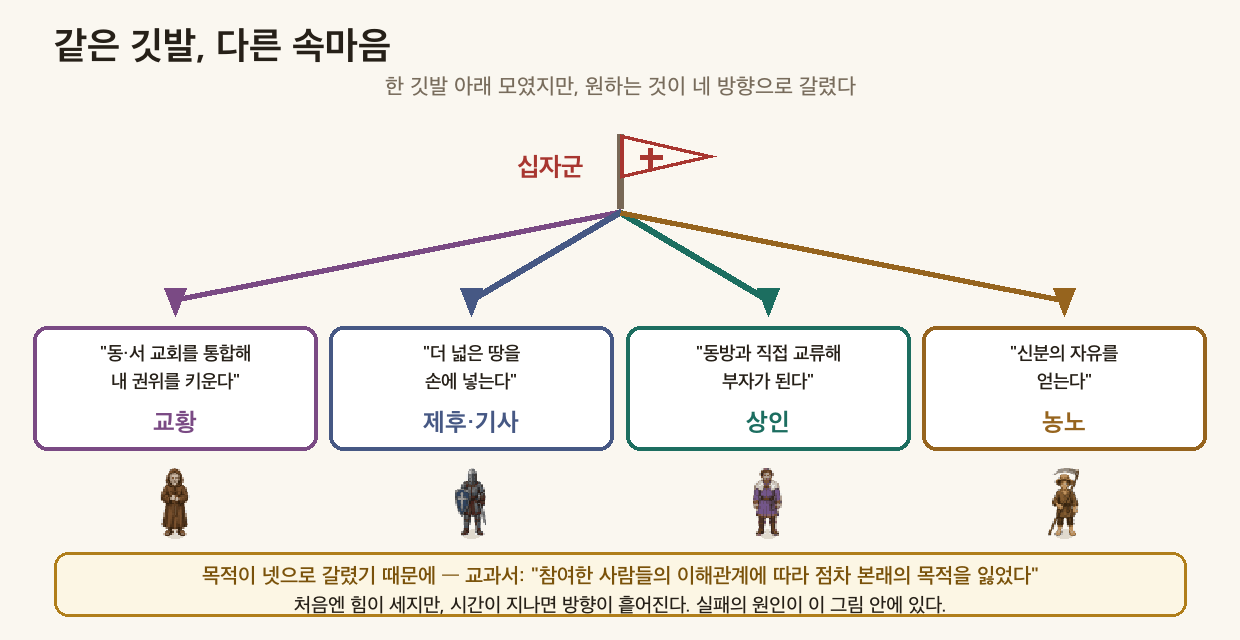
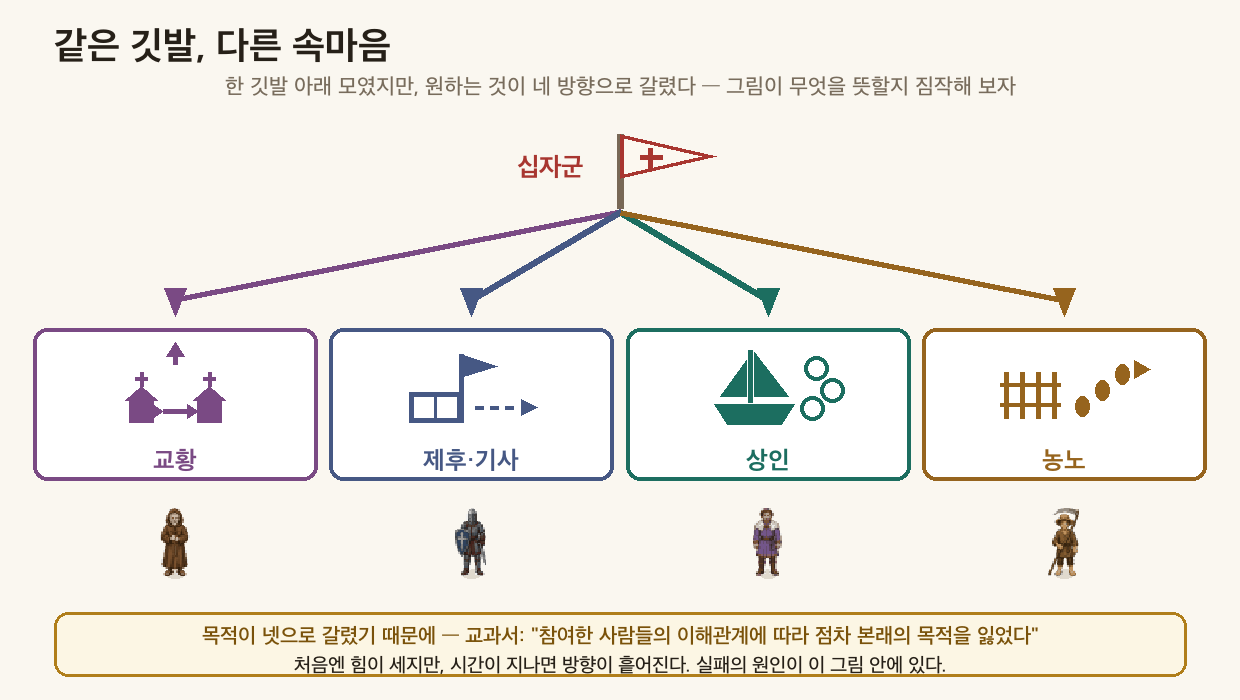
3-3-3 — 속마음을 말에서 꿍꿍이 그림으로 · 4단계 보강 (천대현)
■ 3단계 — 카드에서 말을 빼고 픽토그램만
종전 카드에 따옴표 문장이 그대로 있었고, 바로 아래 교과서 슬롯과 활동 1의
답이 거기 다 있었다. 교과서를 안 펴도 둘 다 풀렸다.
→ 그림으로 짐작 → 교과서 삽화에서 말 확인 → 활동 1에서 매칭, 세 단계로.
  교황=교회 둘이 하나로+↑ / 제후·기사=땅과 깃발+확장 / 상인=배와 동전 /
  농노=울타리 밖으로 난 발자국
🔴 농노에 쇠사슬을 쓰지 않았다 — 3-3-1이 "농노 ≠ 노예"를 가르친다. 울타리는
   "떠날 수 없다"지 "묶여 있다"가 아니다.
⚠ 명시형(A)은 옛 말 병기판(_말.png) 유지 — 느린 학습자에게 그림만 주면
   비계가 사라진다. 본판·탐구형만 그림판.

■ 🔴 키워드 카드 3이 답표였다
도식에서 말을 빼 놓고도 카드가 「누가 / 진짜 원한 것」 4행 표를 갖고 있었다.
게다가 카드는 hero 아코디언이라 페이지 맨 위다 — 본문 전에 열면 그 자리에서
끝난다. 「이해관계」 개념 카드로 교체.
🔑 키워드 카드는 개념어를 담는 자리지 답표를 담는 자리가 아니다.

■ 4단계 — 6단계 중 유일하게 입담도 교과서 슬롯도 없던 단계
하필 OX 2번의 함정이 걸린 자리인데, 함정을 콜아웃으로 알려 주기만 하고 학생이
교과서에서 직접 확인할 자리가 없었다.
→ 200년의 무게 입담 + 「제1차 원정의 결과」와 「전쟁이 끝났을 때의 결과」를
   따로 적게 하는 슬롯. 한 문장 안에 둘이 같이 있어서 앞부분만 읽은 학생이
   OX 2번을 O로 찍는다 — 갈라 적으면 자기 눈으로 모순을 본다.
셋 다 슬롯을 난이도별로 달리 썼다(명시형=①② 지정 / 탐구형=왜 그렇게 썼나 추가).

실측: 본판·명시형·탐구형 전부 빈단계 0 · 입담빈 1 · 교과서빈 2 · 이미지 6 ·
빈칸 6 · OX 3 · CSS 균형 0

Claude-Session: https://claude.ai/code/session_01WENst2cudxyR6rXxwWSCeM

Changed region(s): [[0.0306, 0.1875, 0.9806, 0.9688], [0.0306, 0.0312, 0.8274, 0.1562]]

diff --git a/worksheets/3-3-3_십자군전쟁_개념편.html b/worksheets/3-3-3_십자군전쟁_개념편.html
@@ -880,7 +880,7 @@ table:has(.ox-group) td:first-child { width: 46px; text-align: center; color: #6
 </head>
 <body>
 <div class="container">
-  <section class="hero-section"><h1 class="hero-title">역사① Ⅲ단원 3-3-3 — 같은 깃발 아래, 서로 다른 꿍꿍이 (십자군 전쟁)</h1><p class="hero-subtitle">성지를 되찾자며 200년을 싸웠는데, 왜 교황이 약해졌을까?</p><div class="hero-keywords"><button type="button" class="hero-keyword has-card" data-card="1" aria-expanded="false">셀주크 튀르크 → 예루살렘 점령·비잔티움 위협<span class="kw-caret">＋</span></button><button type="button" class="hero-keyword has-card" data-card="2" aria-expanded="false">교황 우르바누스 2세 클레르몽 호소(1096~)<span class="kw-caret">＋</span></button><button type="button" class="hero-keyword has-card" data-card="3" aria-expanded="false">참여자 4인 = 서로 다른 목적<span class="kw-caret">＋</span></button><button type="button" class="hero-keyword has-card" data-card="4" aria-expanded="false">결과의 역설: 교황권↓ 왕권↑ · 동방 교류↑<span class="kw-caret">＋</span></button></div><div class="hero-card" id="hero-card-1" hidden><div class="hero-card-inner"><p><strong>셀주크 튀르크</strong> — 11세기경 중앙아시아에서 일어난 <strong>유목 민족</strong>. 바그다드를 정복하고 아바스 왕조의 칼리프에게서 <strong>술탄</strong> 칭호를 얻어 이슬람 세계를 이끌었다.</p><div class="card-quote"><strong>술탄</strong> = 아랍어로 '권력'. 이슬람 세계의 <strong>정치적</strong> 지배자를 이르는 말(종교적 지도자인 칼리프와 구분).</div><div class="card-quote">⚠ 전쟁의 방아쇠는 두 가지 — <strong>예루살렘 점령</strong> + <strong>비잔티움 제국 위협</strong>. 다급해진 비잔티움 황제가 교황에게 도움을 요청한 것이 시작이다.</div></div></div><div class="hero-card" id="hero-card-2" hidden><div class="hero-card-inner"><p><strong>클레르몽의 호소 (1096~)</strong> — 교황 <strong>우르바누스 2세</strong>가 클레르몽에서 종교 회의를 열어 <em>"성지 예루살렘을 되찾자"</em>고 호소했다.</p><div class="card-quote">💡 여기에 <strong>제후·기사·상인·농민</strong>이 호응하면서 십자군 전쟁이 시작된다. 교황의 말 한마디에 유럽 전체가 움직였다는 것 자체가 <strong>교황권 절정기</strong>(3-3-2)의 증거다.</div></div></div><div class="hero-card" id="hero-card-3" hidden><div class="hero-card-inner"><p><strong>같은 깃발, 다른 속마음</strong> — 교과서 삽화가 네 사람의 말풍선으로 보여 주는 대목.</p><table><thead><tr><th>누가</th><th>진짜 원한 것</th></tr></thead><tbody><tr><td>교황</td><td>동·서 교회를 통합해 <strong>교황권 강화</strong></td></tr><tr><td>기사</td><td><strong>더 넓은 땅</strong></td></tr><tr><td>상인</td><td>동방과 직접 교류해 <strong>부</strong></td></tr><tr><td>농노</td><td><strong>신분의 자유</strong></td></tr></tbody></table><div class="card-quote">⚠ 목적이 넷으로 갈렸기 때문에 <em>"참여한 사람들의 <strong>이해관계</strong>에 따라 점차 본래의 목적을 잃었다"</em>(교과서). 실패의 원인이 이 표 안에 있다.</div></div></div><div class="hero-card" id="hero-card-4" hidden><div class="hero-card-inner"><p><strong>결과의 역설</strong> — 성지는 못 찾았는데 유럽이 바뀌었다. 그것도 <strong>전쟁을 시작한 쪽이 손해 보는</strong> 방향으로.</p><p><code>교황 권위 ↓</code> · <code>제후·기사 세력 ↓</code> → <strong>왕권 ↑</strong> → 중앙 집권 국가로</p><div class="card-quote">💡 그리고 <strong>적과의 교역이 늘었다</strong> — 지중해 무역권 성장, 베네치아·제노바·피사의 번영, 고전 문화·자연 과학·제지술의 유입. <strong>충돌과 교류가 같은 사건의 앞뒤</strong>다.</div></div></div><img class="hero-image" src="images/3-3-3_십자군_표지.png" alt=""><div class="hero-hook">자, 네가 1096년 유럽 사람이라고 해보자. 교황이 외친다 — '성지 예루살렘을 되찾자!' 사람들이 우르르 모여든다. 그런데 반전이 있어. 모인 사람들 속마음이 다 달랐거든. 교황은 교회 힘을, 기사는 땅을, 상인은 돈을, 농노는 자유를 원했지. 200년 뒤 결과는? 예루살렘은 못 찾았고, 정작 전쟁을 이끈 교황의 힘이 떨어졌어(헐?). 목적과 결과가 이렇게 어긋난 전쟁, 오늘 그 이야기.</div></section>
+  <section class="hero-section"><h1 class="hero-title">역사① Ⅲ단원 3-3-3 — 같은 깃발 아래, 서로 다른 꿍꿍이 (십자군 전쟁)</h1><p class="hero-subtitle">성지를 되찾자며 200년을 싸웠는데, 왜 교황이 약해졌을까?</p><div class="hero-keywords"><button type="button" class="hero-keyword has-card" data-card="1" aria-expanded="false">셀주크 튀르크 → 예루살렘 점령·비잔티움 위협<span class="kw-caret">＋</span></button><button type="button" class="hero-keyword has-card" data-card="2" aria-expanded="false">교황 우르바누스 2세 클레르몽 호소(1096~)<span class="kw-caret">＋</span></button><button type="button" class="hero-keyword has-card" data-card="3" aria-expanded="false">참여자 4인 = 서로 다른 목적<span class="kw-caret">＋</span></button><button type="button" class="hero-keyword has-card" data-card="4" aria-expanded="false">결과의 역설: 교황권↓ 왕권↑ · 동방 교류↑<span class="kw-caret">＋</span></button></div><div class="hero-card" id="hero-card-1" hidden><div class="hero-card-inner"><p><strong>셀주크 튀르크</strong> — 11세기경 중앙아시아에서 일어난 <strong>유목 민족</strong>. 바그다드를 정복하고 아바스 왕조의 칼리프에게서 <strong>술탄</strong> 칭호를 얻어 이슬람 세계를 이끌었다.</p><div class="card-quote"><strong>술탄</strong> = 아랍어로 '권력'. 이슬람 세계의 <strong>정치적</strong> 지배자를 이르는 말(종교적 지도자인 칼리프와 구분).</div><div class="card-quote">⚠ 전쟁의 방아쇠는 두 가지 — <strong>예루살렘 점령</strong> + <strong>비잔티움 제국 위협</strong>. 다급해진 비잔티움 황제가 교황에게 도움을 요청한 것이 시작이다.</div></div></div><div class="hero-card" id="hero-card-2" hidden><div class="hero-card-inner"><p><strong>클레르몽의 호소 (1096~)</strong> — 교황 <strong>우르바누스 2세</strong>가 클레르몽에서 종교 회의를 열어 <em>"성지 예루살렘을 되찾자"</em>고 호소했다.</p><div class="card-quote">💡 여기에 <strong>제후·기사·상인·농민</strong>이 호응하면서 십자군 전쟁이 시작된다. 교황의 말 한마디에 유럽 전체가 움직였다는 것 자체가 <strong>교황권 절정기</strong>(3-3-2)의 증거다.</div></div></div><div class="hero-card" id="hero-card-3" hidden><div class="hero-card-inner"><p><strong>이해관계</strong> — 각자 <strong>얻고 싶은 것</strong>. 사람마다 다르다.</p><div class="card-quote">같은 깃발 아래 모여도 <strong>원하는 것이 저마다 다르면</strong> 처음엔 힘이 세지만 시간이 지나며 방향이 흩어진다. 교과서가 십자군의 실패를 이 한 낱말로 적는다 — <em>"참여한 사람들의 <strong>이해관계</strong>에 따라 점차 본래의 목적을 잃었다."</em></div><div class="card-quote">💡 <strong>넷이 각각 무엇을 원했는지는 3단계 그림과 교과서 98쪽 삽화에 있다.</strong> 활동 1을 먼저 풀어 보고 확인하자.</div></div></div><div class="hero-card" id="hero-card-4" hidden><div class="hero-card-inner"><p><strong>결과의 역설</strong> — 성지는 못 찾았는데 유럽이 바뀌었다. 그것도 <strong>전쟁을 시작한 쪽이 손해 보는</strong> 방향으로.</p><p><code>교황 권위 ↓</code> · <code>제후·기사 세력 ↓</code> → <strong>왕권 ↑</strong> → 중앙 집권 국가로</p><div class="card-quote">💡 그리고 <strong>적과의 교역이 늘었다</strong> — 지중해 무역권 성장, 베네치아·제노바·피사의 번영, 고전 문화·자연 과학·제지술의 유입. <strong>충돌과 교류가 같은 사건의 앞뒤</strong>다.</div></div></div><img class="hero-image" src="images/3-3-3_십자군_표지.png" alt=""><div class="hero-hook">자, 네가 1096년 유럽 사람이라고 해보자. 교황이 외친다 — '성지 예루살렘을 되찾자!' 사람들이 우르르 모여든다. 그런데 반전이 있어. 모인 사람들 속마음이 다 달랐거든. 교황은 교회 힘을, 기사는 땅을, 상인은 돈을, 농노는 자유를 원했지. 200년 뒤 결과는? 예루살렘은 못 찾았고, 정작 전쟁을 이끈 교황의 힘이 떨어졌어(헐?). 목적과 결과가 이렇게 어긋난 전쟁, 오늘 그 이야기.</div></section>
   <div class="control-bar">
     <div class="score">
       빈칸: <span id="score">0</span>/6 · OX: <span id="ox-score">0</span>/3
@@ -937,20 +937,24 @@ table:has(.ox-group) td:first-child { width: 46px; text-align: center; color: #6
 <h2>📖 3단계: ⭐ 같은 깃발, 다른 속마음</h2>
 <blockquote>📕 <strong>교과서 98쪽 삽화</strong> 펴고 보기 · 배정 시간 <strong>6분</strong></blockquote>
 <br>
-<blockquote>🎙 여기가 오늘의 핵심이야. 교과서 삽화를 잘 봐 — 사람들 머리 위 말풍선이 <strong>다 달라.</strong> 같은 전쟁에 모였는데 원하는 게 제각각이었던 거지. 요즘으로 치면, 같은 모둠 과제에 모였는데 누구는 성적, 누구는 친구, 누구는 그냥 재미 때문인 것과 비슷해.</blockquote>
+<blockquote>🎙 여기가 오늘의 핵심이야. 아래 그림에는 <strong>말이 하나도 안 적혀 있어</strong> — 네 사람이 무엇을 바랐는지 <strong>그림으로만</strong> 그려 뒀거든. 하나씩 보면서 <em>"얘는 뭘 원한 걸까?"</em> 짐작해 봐. 그다음 교과서 98쪽 삽화를 펴면 그 사람들이 <strong>실제로 한 말</strong>이 말풍선에 있어. 같은 전쟁에 모였는데 원하는 게 제각각이었던 거지 — 요즘으로 치면 같은 모둠 과제에 모였는데 누구는 성적, 누구는 친구, 누구는 그냥 재미 때문인 것과 비슷해.</blockquote>
 <br>
-<figure class="ws-fig"><img src="images/3-3-3_네속마음.png" alt="같은 깃발, 다른 속마음 — 한 깃발 아래 모였는데 원하는 것이 네 방향으로 갈렸다. 화살표를 하나씩 따라가 보자." loading="lazy"><figcaption>같은 깃발, 다른 속마음 — 한 깃발 아래 모였는데 원하는 것이 네 방향으로 갈렸다. 화살표를 하나씩 따라가 보자.</figcaption></figure>
+<figure class="ws-fig"><img src="images/3-3-3_네속마음.png" alt="같은 깃발, 다른 속마음 — 한 깃발 아래 모였는데 원하는 것이 네 방향으로 갈렸다. 네 사람이 **무엇을 바랐는지 그림으로만** 그려 두었다. 교회 둘이 하나로 · 땅과 깃발 · 배와 동전 · 울타리 밖으로 난 발자국." loading="lazy"><figcaption>같은 깃발, 다른 속마음 — 한 깃발 아래 모였는데 원하는 것이 네 방향으로 갈렸다. 네 사람이 <strong>무엇을 바랐는지 그림으로만</strong> 그려 두었다. 교회 둘이 하나로 · 땅과 깃발 · 배와 동전 · 울타리 밖으로 난 발자국.</figcaption></figure>
 <br>
 <p><strong>→ 목적이 다른 사람들이 모이면?</strong> 처음엔 힘이 세지만, 시간이 지나면 방향이 흩어진다. 이게 십자군의 운명을 갈랐다.</p>
 <br>
-<div class="ws-tb"><div class="ws-tb-tag">📕 교과서 98쪽 · 삽화 말풍선</div><div class="ws-tb-ask">삽화에서 <strong>농민(농노)</strong>의 말풍선을 찾아, 그 말을 한 문장 그대로 옮겨 적자. <input type="text" class="blank-input activity-input no-score" data-id="act-2" data-label="교과서 98쪽에서 찾기 — 삽화에서 농민(농노)의 말풍선을 찾아, 그 말을 한 문장 그대로 옮겨" style="width:400px" placeholder=""></div></div>
+<div class="ws-tb"><div class="ws-tb-tag">📕 교과서 98쪽 · 삽화 말풍선</div><div class="ws-tb-ask">위 그림의 <strong>농노</strong>는 무엇을 바랐을까? 교과서 삽화에서 <strong>농민(농노)의 말풍선</strong>을 찾아 그 말을 그대로 옮겨 적고, 그림의 «울타리 밖으로 난 발자국»과 어떻게 이어지는지 한 줄로 덧붙이자. <input type="text" class="blank-input activity-input no-score" data-id="act-2" data-label="교과서 98쪽에서 찾기 — 위 그림의 농노는 무엇을 바랐을까? 교과서 삽화에서 농민(농노)의 말" style="width:460px" placeholder=""></div></div>
 <br>
 <h2>📖 4단계: 200년의 전쟁, 그리고 실패</h2>
 <blockquote>📕 <strong>교과서 98쪽 가운데</strong> 펴고 채우기 · 배정 시간 <strong>3분</strong></blockquote>
 <br>
 <p>십자군 전쟁은 <strong>200여 년</strong> 동안 여러 차례 일어났다. 제1차 원정 때는 예루살렘을 점령하기도 했다. 그러나 참여한 사람들의 ③<input type="text" class="blank-input" data-answer="이해관계" data-id="3" style="width:84px" placeholder="">에 따라 점차 <strong>본래 목적</strong>을 잃었다. 결국 성지를 회복하지 못한 채 전쟁은 끝났다.</p>
 <br>
+<blockquote>🎙 <strong>200년이야.</strong> 한 번 싸우고 끝난 게 아니라, <strong>할아버지가 갔다가 손자가 또 가는</strong> 일이 여러 차례 되풀이됐어. 지금부터 200년 전이면 조선 시대야 — 그만큼 긴 시간 동안 사람들은 계속 떠났고, 계속 돌아오지 못했어. 그런데 그 긴 싸움의 결말이 뭐였을까?</blockquote>
+<br>
 <blockquote>⚠ <strong>OX 단골</strong> — <em>"제1차 원정에서 예루살렘을 되찾았으니 목적을 이룬 것"</em>이 아니다. 되찾았다가 <strong>다시 잃었고</strong>, 교과서는 <em>"결국 성지를 회복하지 못하고"</em>로 끝맺는다.</blockquote>
+<br>
+<div class="ws-tb"><div class="ws-tb-tag">📕 교과서 98쪽 · 가운데 문단</div><div class="ws-tb-ask"><strong>제1차 원정 때의 결과</strong>와 <strong>전쟁이 끝났을 때의 결과</strong>를 교과서 문장에서 각각 찾아 적자. 두 결과는 어떻게 다른가? <input type="text" class="blank-input activity-input no-score" data-id="act-3" data-label="교과서 98쪽에서 찾기 — 제1차 원정 때의 결과와 전쟁이 끝났을 때의 결과를 교과서 문장에서" style="width:460px" placeholder=""></div></div>
 <br>
 <figure class="ws-fig"><img src="images/3-3-3_되찾았다가잃었다.png" alt="200여 년 — 제1차 원정에서 예루살렘을 점령했지만 다시 잃었고, 결국 성지를 회복하지 못했다." loading="lazy"><figcaption>200여 년 — 제1차 원정에서 예루살렘을 점령했지만 다시 잃었고, 결국 성지를 회복하지 못했다.</figcaption></figure>
 <br>
@@ -973,7 +977,7 @@ table:has(.ox-group) td:first-child { width: 46px; text-align: center; color: #6
 <br>
 <p><strong>싸운 상대편도 돈을 벌었다.</strong> 셀주크 튀르크는 동서양을 잇는 중계 무역으로 이익을 얻었다. 항구 도시와 비단길의 주요 도시에 국제 시장을 열었고, 교역로 곳곳에 상인 숙소를 세워 안전을 보장하며 무역을 장려했다.</p>
 <br>
-<div class="ws-tb"><div class="ws-tb-tag">📕 교과서 99쪽 · 날개(옆쪽 작은 글씨)</div><div class="ws-tb-ask">셀주크 튀르크가 세운 상인 숙소의 <strong>이름</strong>은 무엇인가? 그리고 <strong>'카라반'</strong>은 어떤 사람들을 말하나? <input type="text" class="blank-input activity-input no-score" data-id="act-3" data-label="교과서 99쪽에서 찾기 — 셀주크 튀르크가 세운 상인 숙소의 이름은 무엇인가? 그리고 '카라반'" style="width:400px" placeholder=""></div></div>
+<div class="ws-tb"><div class="ws-tb-tag">📕 교과서 99쪽 · 날개(옆쪽 작은 글씨)</div><div class="ws-tb-ask">셀주크 튀르크가 세운 상인 숙소의 <strong>이름</strong>은 무엇인가? 그리고 <strong>'카라반'</strong>은 어떤 사람들을 말하나? <input type="text" class="blank-input activity-input no-score" data-id="act-4" data-label="교과서 99쪽에서 찾기 — 셀주크 튀르크가 세운 상인 숙소의 이름은 무엇인가? 그리고 '카라반'" style="width:400px" placeholder=""></div></div>
 <br>
 <p>전쟁이 끝난 뒤 두 세계의 교역은 더 활발해졌고, ⑥<input type="text" class="blank-input" data-answer="지중해" data-id="6" style="width:68px" placeholder=""> 무역권이 크게 성장했다. <strong>베네치아·제노바·피사</strong> 같은 연안 도시가 번성했고, <strong>이베리아반도</strong>와 <strong>콘스탄티노폴리스</strong>는 학문과 기술이 오가는 창구가 되었다. 이 길을 타고 비잔티움의 <strong>고전 문화</strong>, 이슬람 세계의 <strong>자연 과학</strong>, 중국의 <strong>제지술</strong>이 유럽에 들어왔다.</p>
 <br>
@@ -987,10 +991,10 @@ table:has(.ox-group) td:first-child { width: 46px; text-align: center; color: #6
 <br>
 <table class="act-table">
 <tr><td>속마음</td><td>누구?</td></tr>
-<tr><td>"동방과 직접 교류해서 부자가 되어야지."</td><td><input type="text" class="blank-input activity-input no-score" data-id="act-4" data-label="동방과 직접 교류해서 부자가 되어야지." style="width:120px" placeholder=""></td></tr>
-<tr><td>"신분의 자유를 얻을 테야."</td><td><input type="text" class="blank-input activity-input no-score" data-id="act-5" data-label="신분의 자유를 얻을 테야." style="width:120px" placeholder=""></td></tr>
-<tr><td>"동·서 교회를 통합하면 내 권위가 더 강해질 거야."</td><td><input type="text" class="blank-input activity-input no-score" data-id="act-6" data-label="동·서 교회를 통합하면 내 권위가 더 강해질 거야." style="width:120px" placeholder=""></td></tr>
-<tr><td>"더 넓은 땅을 손에 넣을 기회야."</td><td><input type="text" class="blank-input activity-input no-score" data-id="act-7" data-label="더 넓은 땅을 손에 넣을 기회야." style="width:120px" placeholder=""></td></tr>
+<tr><td>"동방과 직접 교류해서 부자가 되어야지."</td><td><input type="text" class="blank-input activity-input no-score" data-id="act-5" data-label="동방과 직접 교류해서 부자가 되어야지." style="width:120px" placeholder=""></td></tr>
+<tr><td>"신분의 자유를 얻을 테야."</td><td><input type="text" class="blank-input activity-input no-score" data-id="act-6" data-label="신분의 자유를 얻을 테야." style="width:120px" placeholder=""></td></tr>
+<tr><td>"동·서 교회를 통합하면 내 권위가 더 강해질 거야."</td><td><input type="text" class="blank-input activity-input no-score" data-id="act-7" data-label="동·서 교회를 통합하면 내 권위가 더 강해질 거야." style="width:120px" placeholder=""></td></tr>
+<tr><td>"더 넓은 땅을 손에 넣을 기회야."</td><td><input type="text" class="blank-input activity-input no-score" data-id="act-8" data-label="더 넓은 땅을 손에 넣을 기회야." style="width:120px" placeholder=""></td></tr>
 </table>
 <br>
 <h2>✅ OX 퀴즈</h2>

diff --git a/worksheets/3-3-3_십자군전쟁_개념편_명시형.html b/worksheets/3-3-3_십자군전쟁_개념편_명시형.html
@@ -880,7 +880,7 @@ table:has(.ox-group) td:first-child { width: 46px; text-align: center; color: #6
 </head>
 <body>
 <div class="container">
-  <section class="hero-section"><h1 class="hero-title">역사① Ⅲ단원 3-3-3 — 같은 깃발 아래, 서로 다른 꿍꿍이 (십자군 전쟁)</h1><p class="hero-subtitle">성지를 되찾자며 200년을 싸웠는데, 왜 교황이 약해졌을까?</p><div class="hero-keywords"><button type="button" class="hero-keyword has-card" data-card="1" aria-expanded="false">셀주크 튀르크 → 예루살렘 점령·비잔티움 위협<span class="kw-caret">＋</span></button><button type="button" class="hero-keyword has-card" data-card="2" aria-expanded="false">교황 우르바누스 2세 클레르몽 호소(1096~)<span class="kw-caret">＋</span></button><button type="button" class="hero-keyword has-card" data-card="3" aria-expanded="false">참여자 4인 = 서로 다른 목적<span class="kw-caret">＋</span></button><button type="button" class="hero-keyword has-card" data-card="4" aria-expanded="false">결과의 역설: 교황권↓ 왕권↑ · 동방 교류↑<span class="kw-caret">＋</span></button></div><div class="hero-card" id="hero-card-1" hidden><div class="hero-card-inner"><p><strong>셀주크 튀르크</strong> — 11세기경 중앙아시아에서 일어난 <strong>유목 민족</strong>. 바그다드를 정복하고 아바스 왕조의 칼리프에게서 <strong>술탄</strong> 칭호를 얻어 이슬람 세계를 이끌었다.</p><div class="card-quote"><strong>술탄</strong> = 아랍어로 '권력'. 이슬람 세계의 <strong>정치적</strong> 지배자를 이르는 말(종교적 지도자인 칼리프와 구분).</div><div class="card-quote">⚠ 전쟁의 방아쇠는 두 가지 — <strong>예루살렘 점령</strong> + <strong>비잔티움 제국 위협</strong>. 다급해진 비잔티움 황제가 교황에게 도움을 요청한 것이 시작이다.</div></div></div><div class="hero-card" id="hero-card-2" hidden><div class="hero-card-inner"><p><strong>클레르몽의 호소 (1096~)</strong> — 교황 <strong>우르바누스 2세</strong>가 클레르몽에서 종교 회의를 열어 <em>"성지 예루살렘을 되찾자"</em>고 호소했다.</p><div class="card-quote">💡 여기에 <strong>제후·기사·상인·농민</strong>이 호응하면서 십자군 전쟁이 시작된다. 교황의 말 한마디에 유럽 전체가 움직였다는 것 자체가 <strong>교황권 절정기</strong>(3-3-2)의 증거다.</div></div></div><div class="hero-card" id="hero-card-3" hidden><div class="hero-card-inner"><p><strong>같은 깃발, 다른 속마음</strong> — 교과서 삽화가 네 사람의 말풍선으로 보여 주는 대목.</p><table><thead><tr><th>누가</th><th>진짜 원한 것</th></tr></thead><tbody><tr><td>교황</td><td>동·서 교회를 통합해 <strong>교황권 강화</strong></td></tr><tr><td>기사</td><td><strong>더 넓은 땅</strong></td></tr><tr><td>상인</td><td>동방과 직접 교류해 <strong>부</strong></td></tr><tr><td>농노</td><td><strong>신분의 자유</strong></td></tr></tbody></table><div class="card-quote">⚠ 목적이 넷으로 갈렸기 때문에 <em>"참여한 사람들의 <strong>이해관계</strong>에 따라 점차 본래의 목적을 잃었다"</em>(교과서). 실패의 원인이 이 표 안에 있다.</div></div></div><div class="hero-card" id="hero-card-4" hidden><div class="hero-card-inner"><p><strong>결과의 역설</strong> — 성지는 못 찾았는데 유럽이 바뀌었다. 그것도 <strong>전쟁을 시작한 쪽이 손해 보는</strong> 방향으로.</p><p><code>교황 권위 ↓</code> · <code>제후·기사 세력 ↓</code> → <strong>왕권 ↑</strong> → 중앙 집권 국가로</p><div class="card-quote">💡 그리고 <strong>적과의 교역이 늘었다</strong> — 지중해 무역권 성장, 베네치아·제노바·피사의 번영, 고전 문화·자연 과학·제지술의 유입. <strong>충돌과 교류가 같은 사건의 앞뒤</strong>다.</div></div></div><img class="hero-image" src="images/3-3-3_십자군_표지.png" alt=""><div class="hero-hook">자, 네가 1096년 유럽 사람이라고 해보자. 교황이 외친다 — '성지 예루살렘을 되찾자!' 사람들이 우르르 모여든다. 그런데 반전이 있어. 모인 사람들 속마음이 다 달랐거든. 교황은 교회 힘을, 기사는 땅을, 상인은 돈을, 농노는 자유를 원했지. 200년 뒤 결과는? 예루살렘은 못 찾았고, 정작 전쟁을 이끈 교황의 힘이 떨어졌어(헐?). 목적과 결과가 이렇게 어긋난 전쟁, 오늘 그 이야기.</div></section>
+  <section class="hero-section"><h1 class="hero-title">역사① Ⅲ단원 3-3-3 — 같은 깃발 아래, 서로 다른 꿍꿍이 (십자군 전쟁)</h1><p class="hero-subtitle">성지를 되찾자며 200년을 싸웠는데, 왜 교황이 약해졌을까?</p><div class="hero-keywords"><button type="button" class="hero-keyword has-card" data-card="1" aria-expanded="false">셀주크 튀르크 → 예루살렘 점령·비잔티움 위협<span class="kw-caret">＋</span></button><button type="button" class="hero-keyword has-card" data-card="2" aria-expanded="false">교황 우르바누스 2세 클레르몽 호소(1096~)<span class="kw-caret">＋</span></button><button type="button" class="hero-keyword has-card" data-card="3" aria-expanded="false">참여자 4인 = 서로 다른 목적<span class="kw-caret">＋</span></button><button type="button" class="hero-keyword has-card" data-card="4" aria-expanded="false">결과의 역설: 교황권↓ 왕권↑ · 동방 교류↑<span class="kw-caret">＋</span></button></div><div class="hero-card" id="hero-card-1" hidden><div class="hero-card-inner"><p><strong>셀주크 튀르크</strong> — 11세기경 중앙아시아에서 일어난 <strong>유목 민족</strong>. 바그다드를 정복하고 아바스 왕조의 칼리프에게서 <strong>술탄</strong> 칭호를 얻어 이슬람 세계를 이끌었다.</p><div class="card-quote"><strong>술탄</strong> = 아랍어로 '권력'. 이슬람 세계의 <strong>정치적</strong> 지배자를 이르는 말(종교적 지도자인 칼리프와 구분).</div><div class="card-quote">⚠ 전쟁의 방아쇠는 두 가지 — <strong>예루살렘 점령</strong> + <strong>비잔티움 제국 위협</strong>. 다급해진 비잔티움 황제가 교황에게 도움을 요청한 것이 시작이다.</div></div></div><div class="hero-card" id="hero-card-2" hidden><div class="hero-card-inner"><p><strong>클레르몽의 호소 (1096~)</strong> — 교황 <strong>우르바누스 2세</strong>가 클레르몽에서 종교 회의를 열어 <em>"성지 예루살렘을 되찾자"</em>고 호소했다.</p><div class="card-quote">💡 여기에 <strong>제후·기사·상인·농민</strong>이 호응하면서 십자군 전쟁이 시작된다. 교황의 말 한마디에 유럽 전체가 움직였다는 것 자체가 <strong>교황권 절정기</strong>(3-3-2)의 증거다.</div></div></div><div class="hero-card" id="hero-card-3" hidden><div class="hero-card-inner"><p><strong>이해관계</strong> — 각자 <strong>얻고 싶은 것</strong>. 사람마다 다르다.</p><div class="card-quote">같은 깃발 아래 모여도 <strong>원하는 것이 저마다 다르면</strong> 처음엔 힘이 세지만 시간이 지나며 방향이 흩어진다. 교과서가 십자군의 실패를 이 한 낱말로 적는다 — <em>"참여한 사람들의 <strong>이해관계</strong>에 따라 점차 본래의 목적을 잃었다."</em></div><div class="card-quote">💡 <strong>넷이 각각 무엇을 원했는지는 3단계 그림과 교과서 98쪽 삽화에 있다.</strong> 활동 1을 먼저 풀어 보고 확인하자.</div></div></div><div class="hero-card" id="hero-card-4" hidden><div class="hero-card-inner"><p><strong>결과의 역설</strong> — 성지는 못 찾았는데 유럽이 바뀌었다. 그것도 <strong>전쟁을 시작한 쪽이 손해 보는</strong> 방향으로.</p><p><code>교황 권위 ↓</code> · <code>제후·기사 세력 ↓</code> → <strong>왕권 ↑</strong> → 중앙 집권 국가로</p><div class="card-quote">💡 그리고 <strong>적과의 교역이 늘었다</strong> — 지중해 무역권 성장, 베네치아·제노바·피사의 번영, 고전 문화·자연 과학·제지술의 유입. <strong>충돌과 교류가 같은 사건의 앞뒤</strong>다.</div></div></div><img class="hero-image" src="images/3-3-3_십자군_표지.png" alt=""><div class="hero-hook">자, 네가 1096년 유럽 사람이라고 해보자. 교황이 외친다 — '성지 예루살렘을 되찾자!' 사람들이 우르르 모여든다. 그런데 반전이 있어. 모인 사람들 속마음이 다 달랐거든. 교황은 교회 힘을, 기사는 땅을, 상인은 돈을, 농노는 자유를 원했지. 200년 뒤 결과는? 예루살렘은 못 찾았고, 정작 전쟁을 이끈 교황의 힘이 떨어졌어(헐?). 목적과 결과가 이렇게 어긋난 전쟁, 오늘 그 이야기.</div></section>
   <div class="control-bar">
     <div class="score">
       빈칸: <span id="score">0</span>/6 · OX: <span id="ox-score">0</span>/3
@@ -944,7 +944,7 @@ table:has(.ox-group) td:first-child { width: 46px; text-align: center; color: #6
 <br>
 <blockquote>🎙 여기가 오늘의 핵심이야. 교과서 삽화를 잘 봐 — 사람들 머리 위 말풍선이 <strong>다 달라.</strong> 같은 전쟁에 모였는데 원하는 게 제각각이었던 거지. 요즘으로 치면, 같은 모둠 과제에 모였는데 누구는 성적, 누구는 친구, 누구는 그냥 재미 때문인 것과 비슷해.</blockquote>
 <br>
-<figure class="ws-fig"><img src="images/3-3-3_네속마음.png" alt="같은 깃발, 다른 속마음 — 한 깃발 아래 모였는데 원하는 것이 네 방향으로 갈렸다. 화살표를 하나씩 따라가 보자." loading="lazy"><figcaption>같은 깃발, 다른 속마음 — 한 깃발 아래 모였는데 원하는 것이 네 방향으로 갈렸다. 화살표를 하나씩 따라가 보자.</figcaption></figure>
+<figure class="ws-fig"><img src="images/3-3-3_네속마음_말.png" alt="같은 깃발, 다른 속마음 — 한 깃발 아래 모였는데 원하는 것이 네 방향으로 갈렸다. 화살표를 하나씩 따라가 보자." loading="lazy"><figcaption>같은 깃발, 다른 속마음 — 한 깃발 아래 모였는데 원하는 것이 네 방향으로 갈렸다. 화살표를 하나씩 따라가 보자.</figcaption></figure>
 <br>
 <p><strong>→ 목적이 다른 사람들이 모이면?</strong> 처음엔 힘이 세지만, 시간이 지나면 방향이 흩어진다. 이게 십자군의 운명을 갈랐다.</p>
 <br>
@@ -957,7 +957,11 @@ table:has(.ox-group) td:first-child { width: 46px; text-align: center; color: #6
 <br>
 <blockquote>🧭 <strong>③ 보기:</strong> 이해관계 · 신앙심 · 우정 — 이 중에서 골라 쓰자.</blockquote>
 <br>
+<blockquote>🎙 <strong>200년이야.</strong> 한 번 싸우고 끝난 게 아니라, <strong>할아버지가 갔다가 손자가 또 가는</strong> 일이 여러 차례 되풀이됐어. 지금부터 200년 전이면 조선 시대야 — 그만큼 긴 시간 동안 사람들은 계속 떠났고, 계속 돌아오지 못했어. 그런데 그 긴 싸움의 결말이 뭐였을까?</blockquote>
+<br>
 <blockquote>⚠ <strong>OX 단골</strong> — <em>"제1차 원정에서 예루살렘을 되찾았으니 목적을 이룬 것"</em>이 아니다. 되찾았다가 <strong>다시 잃었고</strong>, 교과서는 <em>"결국 성지를 회복하지 못하고"</em>로 끝맺는다.</blockquote>
+<br>
+<div class="ws-tb"><div class="ws-tb-tag">📕 교과서 98쪽 · 가운데 문단</div><div class="ws-tb-ask">교과서 문장에서 두 곳을 찾아 적자. <strong>① 제1차 원정 때는 어떻게 되었나</strong> · <strong>② 전쟁이 끝났을 때는 어떻게 되었나</strong> <input type="text" class="blank-input activity-input no-score" data-id="act-3" data-label="교과서 98쪽에서 찾기 — 교과서 문장에서 두 곳을 찾아 적자. ① 제1차 원정 때는 어떻게 되" style="width:460px" placeholder=""></div></div>
 <br>
 <figure class="ws-fig"><img src="images/3-3-3_되찾았다가잃었다.png" alt="200여 년 — 제1차 원정에서 예루살렘을 점령했지만 다시 잃었고, 결국 성지를 회복하지 못했다." loading="lazy"><figcaption>200여 년 — 제1차 원정에서 예루살렘을 점령했지만 다시 잃었고, 결국 성지를 회복하지 못했다.</figcaption></figure>
 <br>
@@ -981,7 +985,7 @@ table:has(.ox-group) td:first-child { width: 46px; text-align: center; color: #6
 <br>
 <p><strong>싸운 상대편도 돈을 벌었다.</strong> 셀주크 튀르크는 동서양을 잇는 중계 무역으로 이익을 얻었다. 항구 도시와 비단길의 주요 도시에 국제 시장을 열었고, 교역로 곳곳에 상인 숙소를 세워 안전을 보장하며 무역을 장려했다.</p>
 <br>
-<div class="ws-tb"><div class="ws-tb-tag">📕 교과서 99쪽 · 날개(옆쪽 작은 글씨)</div><div class="ws-tb-ask">셀주크 튀르크가 세운 상인 숙소의 <strong>이름</strong>은 무엇인가? 그리고 <strong>'카라반'</strong>은 어떤 사람들을 말하나? <input type="text" class="blank-input activity-input no-score" data-id="act-3" data-label="교과서 99쪽에서 찾기 — 셀주크 튀르크가 세운 상인 숙소의 이름은 무엇인가? 그리고 '카라반'" style="width:400px" placeholder=""></div></div>
+<div class="ws-tb"><div class="ws-tb-tag">📕 교과서 99쪽 · 날개(옆쪽 작은 글씨)</div><div class="ws-tb-ask">셀주크 튀르크가 세운 상인 숙소의 <strong>이름</strong>은 무엇인가? 그리고 <strong>'카라반'</strong>은 어떤 사람들을 말하나? <input type="text" class="blank-input activity-input no-score" data-id="act-4" data-label="교과서 99쪽에서 찾기 — 셀주크 튀르크가 세운 상인 숙소의 이름은 무엇인가? 그리고 '카라반'" style="width:400px" placeholder=""></div></div>
 <br>
 <p>전쟁이 끝난 뒤 두 세계의 교역은 더 활발해졌고, ⑥<input type="text" class="blank-input" data-answer="지중해" data-id="6" style="width:68px" placeholder=""> 무역권이 크게 성장했다. <strong>베네치아·제노바·피사</strong> 같은 연안 도시가 번성했고, <strong>이베리아반도</strong>와 <strong>콘스탄티노폴리스</strong>는 학문과 기술이 오가는 창구가 되었다. 이 길을 타고 비잔티움의 <strong>고전 문화</strong>, 이슬람 세계의 <strong>자연 과학</strong>, 중국의 <strong>제지술</strong>이 유럽에 들어왔다.</p>
 <br>
@@ -998,9 +1002,9 @@ table:has(.ox-group) td:first-child { width: 46px; text-align: center; color: #6
 <table class="act-table">
 <tr><td>속마음</td><td>누구?</td></tr>
 <tr><td>"동방과 직접 교류해서 부자가 되어야지."</td><td><strong>상인</strong> ← 예시(함께 풀기)</td></tr>
-<tr><td>"신분의 자유를 얻을 테야."</td><td><input type="text" class="blank-input activity-input no-score" data-id="act-4" data-label="신분의 자유를 얻을 테야." style="width:120px" placeholder=""></td></tr>
-<tr><td>"동·서 교회를 통합하면 내 권위가 더 강해질 거야."</td><td><input type="text" class="blank-input activity-input no-score" data-id="act-5" data-label="동·서 교회를 통합하면 내 권위가 더 강해질 거야." style="width:120px" placeholder=""></td></tr>
-<tr><td>"더 넓은 땅을 손에 넣을 기회야."</td><td><input type="text" class="blank-input activity-input no-score" data-id="act-6" data-label="더 넓은 땅을 손에 넣을 기회야." style="width:120px" placeholder=""></td></tr>
+<tr><td>"신분의 자유를 얻을 테야."</td><td><input type="text" class="blank-input activity-input no-score" data-id="act-5" data-label="신분의 자유를 얻을 테야." style="width:120px" placeholder=""></td></tr>
+<tr><td>"동·서 교회를 통합하면 내 권위가 더 강해질 거야."</td><td><input type="text" class="blank-input activity-input no-score" data-id="act-6" data-label="동·서 교회를 통합하면 내 권위가 더 강해질 거야." style="width:120px" placeholder=""></td></tr>
+<tr><td>"더 넓은 땅을 손에 넣을 기회야."</td><td><input type="text" class="blank-input activity-input no-score" data-id="act-7" data-label="더 넓은 땅을 손에 넣을 기회야." style="width:120px" placeholder=""></td></tr>
 </table>
 <br>
 <h2>✅ OX 퀴즈</h2>

diff --git a/worksheets/3-3-3_십자군전쟁_개념편_탐구형.html b/worksheets/3-3-3_십자군전쟁_개념편_탐구형.html
@@ -880,7 +880,7 @@ table:has(.ox-group) td:first-child { width: 46px; text-align: center; color: #6
 </head>
 <body>
 <div class="container">
-  <section class="hero-section"><h1 class="hero-title">역사① Ⅲ단원 3-3-3 — 같은 깃발 아래, 서로 다른 꿍꿍이 (십자군 전쟁)</h1><p class="hero-subtitle">성지를 되찾자며 200년을 싸웠는데, 왜 교황이 약해졌을까?</p><div class="hero-keywords"><button type="button" class="hero-keyword has-card" data-card="1" aria-expanded="false">셀주크 튀르크 → 예루살렘 점령·비잔티움 위협<span class="kw-caret">＋</span></button><button type="button" class="hero-keyword has-card" data-card="2" aria-expanded="false">교황 우르바누스 2세 클레르몽 호소(1096~)<span class="kw-caret">＋</span></button><button type="button" class="hero-keyword has-card" data-card="3" aria-expanded="false">참여자 4인 = 서로 다른 목적<span class="kw-caret">＋</span></button><button type="button" class="hero-keyword has-card" data-card="4" aria-expanded="false">결과의 역설: 교황권↓ 왕권↑ · 동방 교류↑<span class="kw-caret">＋</span></button></div><div class="hero-card" id="hero-card-1" hidden><div class="hero-card-inner"><p><strong>셀주크 튀르크</strong> — 11세기경 중앙아시아에서 일어난 <strong>유목 민족</strong>. 바그다드를 정복하고 아바스 왕조의 칼리프에게서 <strong>술탄</strong> 칭호를 얻어 이슬람 세계를 이끌었다.</p><div class="card-quote"><strong>술탄</strong> = 아랍어로 '권력'. 이슬람 세계의 <strong>정치적</strong> 지배자를 이르는 말(종교적 지도자인 칼리프와 구분).</div><div class="card-quote">⚠ 전쟁의 방아쇠는 두 가지 — <strong>예루살렘 점령</strong> + <strong>비잔티움 제국 위협</strong>. 다급해진 비잔티움 황제가 교황에게 도움을 요청한 것이 시작이다.</div></div></div><div class="hero-card" id="hero-card-2" hidden><div class="hero-card-inner"><p><strong>클레르몽의 호소 (1096~)</strong> — 교황 <strong>우르바누스 2세</strong>가 클레르몽에서 종교 회의를 열어 <em>"성지 예루살렘을 되찾자"</em>고 호소했다.</p><div class="card-quote">💡 여기에 <strong>제후·기사·상인·농민</strong>이 호응하면서 십자군 전쟁이 시작된다. 교황의 말 한마디에 유럽 전체가 움직였다는 것 자체가 <strong>교황권 절정기</strong>(3-3-2)의 증거다.</div></div></div><div class="hero-card" id="hero-card-3" hidden><div class="hero-card-inner"><p><strong>같은 깃발, 다른 속마음</strong> — 교과서 삽화가 네 사람의 말풍선으로 보여 주는 대목.</p><table><thead><tr><th>누가</th><th>진짜 원한 것</th></tr></thead><tbody><tr><td>교황</td><td>동·서 교회를 통합해 <strong>교황권 강화</strong></td></tr><tr><td>기사</td><td><strong>더 넓은 땅</strong></td></tr><tr><td>상인</td><td>동방과 직접 교류해 <strong>부</strong></td></tr><tr><td>농노</td><td><strong>신분의 자유</strong></td></tr></tbody></table><div class="card-quote">⚠ 목적이 넷으로 갈렸기 때문에 <em>"참여한 사람들의 <strong>이해관계</strong>에 따라 점차 본래의 목적을 잃었다"</em>(교과서). 실패의 원인이 이 표 안에 있다.</div></div></div><div class="hero-card" id="hero-card-4" hidden><div class="hero-card-inner"><p><strong>결과의 역설</strong> — 성지는 못 찾았는데 유럽이 바뀌었다. 그것도 <strong>전쟁을 시작한 쪽이 손해 보는</strong> 방향으로.</p><p><code>교황 권위 ↓</code> · <code>제후·기사 세력 ↓</code> → <strong>왕권 ↑</strong> → 중앙 집권 국가로</p><div class="card-quote">💡 그리고 <strong>적과의 교역이 늘었다</strong> — 지중해 무역권 성장, 베네치아·제노바·피사의 번영, 고전 문화·자연 과학·제지술의 유입. <strong>충돌과 교류가 같은 사건의 앞뒤</strong>다.</div></div></div><img class="hero-image" src="images/3-3-3_십자군_표지.png" alt=""><div class="hero-hook">자, 네가 1096년 유럽 사람이라고 해보자. 교황이 외친다 — '성지 예루살렘을 되찾자!' 사람들이 우르르 모여든다. 그런데 반전이 있어. 모인 사람들 속마음이 다 달랐거든. 교황은 교회 힘을, 기사는 땅을, 상인은 돈을, 농노는 자유를 원했지. 200년 뒤 결과는? 예루살렘은 못 찾았고, 정작 전쟁을 이끈 교황의 힘이 떨어졌어(헐?). 목적과 결과가 이렇게 어긋난 전쟁, 오늘 그 이야기.</div></section>
+  <section class="hero-section"><h1 class="hero-title">역사① Ⅲ단원 3-3-3 — 같은 깃발 아래, 서로 다른 꿍꿍이 (십자군 전쟁)</h1><p class="hero-subtitle">성지를 되찾자며 200년을 싸웠는데, 왜 교황이 약해졌을까?</p><div class="hero-keywords"><button type="button" class="hero-keyword has-card" data-card="1" aria-expanded="false">셀주크 튀르크 → 예루살렘 점령·비잔티움 위협<span class="kw-caret">＋</span></button><button type="button" class="hero-keyword has-card" data-card="2" aria-expanded="false">교황 우르바누스 2세 클레르몽 호소(1096~)<span class="kw-caret">＋</span></button><button type="button" class="hero-keyword has-card" data-card="3" aria-expanded="false">참여자 4인 = 서로 다른 목적<span class="kw-caret">＋</span></button><button type="button" class="hero-keyword has-card" data-card="4" aria-expanded="false">결과의 역설: 교황권↓ 왕권↑ · 동방 교류↑<span class="kw-caret">＋</span></button></div><div class="hero-card" id="hero-card-1" hidden><div class="hero-card-inner"><p><strong>셀주크 튀르크</strong> — 11세기경 중앙아시아에서 일어난 <strong>유목 민족</strong>. 바그다드를 정복하고 아바스 왕조의 칼리프에게서 <strong>술탄</strong> 칭호를 얻어 이슬람 세계를 이끌었다.</p><div class="card-quote"><strong>술탄</strong> = 아랍어로 '권력'. 이슬람 세계의 <strong>정치적</strong> 지배자를 이르는 말(종교적 지도자인 칼리프와 구분).</div><div class="card-quote">⚠ 전쟁의 방아쇠는 두 가지 — <strong>예루살렘 점령</strong> + <strong>비잔티움 제국 위협</strong>. 다급해진 비잔티움 황제가 교황에게 도움을 요청한 것이 시작이다.</div></div></div><div class="hero-card" id="hero-card-2" hidden><div class="hero-card-inner"><p><strong>클레르몽의 호소 (1096~)</strong> — 교황 <strong>우르바누스 2세</strong>가 클레르몽에서 종교 회의를 열어 <em>"성지 예루살렘을 되찾자"</em>고 호소했다.</p><div class="card-quote">💡 여기에 <strong>제후·기사·상인·농민</strong>이 호응하면서 십자군 전쟁이 시작된다. 교황의 말 한마디에 유럽 전체가 움직였다는 것 자체가 <strong>교황권 절정기</strong>(3-3-2)의 증거다.</div></div></div><div class="hero-card" id="hero-card-3" hidden><div class="hero-card-inner"><p><strong>이해관계</strong> — 각자 <strong>얻고 싶은 것</strong>. 사람마다 다르다.</p><div class="card-quote">같은 깃발 아래 모여도 <strong>원하는 것이 저마다 다르면</strong> 처음엔 힘이 세지만 시간이 지나며 방향이 흩어진다. 교과서가 십자군의 실패를 이 한 낱말로 적는다 — <em>"참여한 사람들의 <strong>이해관계</strong>에 따라 점차 본래의 목적을 잃었다."</em></div><div class="card-quote">💡 <strong>넷이 각각 무엇을 원했는지는 3단계 그림과 교과서 98쪽 삽화에 있다.</strong> 활동 1을 먼저 풀어 보고 확인하자.</div></div></div><div class="hero-card" id="hero-card-4" hidden><div class="hero-card-inner"><p><strong>결과의 역설</strong> — 성지는 못 찾았는데 유럽이 바뀌었다. 그것도 <strong>전쟁을 시작한 쪽이 손해 보는</strong> 방향으로.</p><p><code>교황 권위 ↓</code> · <code>제후·기사 세력 ↓</code> → <strong>왕권 ↑</strong> → 중앙 집권 국가로</p><div class="card-quote">💡 그리고 <strong>적과의 교역이 늘었다</strong> — 지중해 무역권 성장, 베네치아·제노바·피사의 번영, 고전 문화·자연 과학·제지술의 유입. <strong>충돌과 교류가 같은 사건의 앞뒤</strong>다.</div></div></div><img class="hero-image" src="images/3-3-3_십자군_표지.png" alt=""><div class="hero-hook">자, 네가 1096년 유럽 사람이라고 해보자. 교황이 외친다 — '성지 예루살렘을 되찾자!' 사람들이 우르르 모여든다. 그런데 반전이 있어. 모인 사람들 속마음이 다 달랐거든. 교황은 교회 힘을, 기사는 땅을, 상인은 돈을, 농노는 자유를 원했지. 200년 뒤 결과는? 예루살렘은 못 찾았고, 정작 전쟁을 이끈 교황의 힘이 떨어졌어(헐?). 목적과 결과가 이렇게 어긋난 전쟁, 오늘 그 이야기.</div></section>
   <div class="control-bar">
     <div class="score">
       빈칸: <span id="score">0</span>/6 · OX: <span id="ox-score">0</span>/3
@@ -948,7 +948,11 @@ table:has(.ox-group) td:first-child { width: 46px; text-align: center; color: #6
 <br>
 <p>십자군 전쟁은 <strong>200여 년</strong> 동안 여러 차례 일어났다. 제1차 원정 때는 예루살렘을 점령하기도 했다. 그러나 참여한 사람들의 ③<input type="text" class="blank-input" data-answer="이해관계" data-id="3" style="width:84px" placeholder="">에 따라 점차 <strong>본래 목적</strong>을 잃었다. 결국 성지를 회복하지 못한 채 전쟁은 끝났다.</p>
 <br>
+<blockquote>🎙 <strong>200년이야.</strong> 한 번 싸우고 끝난 게 아니라, <strong>할아버지가 갔다가 손자가 또 가는</strong> 일이 여러 차례 되풀이됐어. 지금부터 200년 전이면 조선 시대야 — 그만큼 긴 시간 동안 사람들은 계속 떠났고, 계속 돌아오지 못했어. 그런데 그 긴 싸움의 결말이 뭐였을까?</blockquote>
+<br>
 <blockquote>⚠ <strong>OX 단골</strong> — <em>"제1차 원정에서 예루살렘을 되찾았으니 목적을 이룬 것"</em>이 아니다. 되찾았다가 <strong>다시 잃었고</strong>, 교과서는 <em>"결국 성지를 회복하지 못하고"</em>로 끝맺는다.</blockquote>
+<br>
+<div class="ws-tb"><div class="ws-tb-tag">📕 교과서 98쪽 · 가운데 문단</div><div class="ws-tb-ask"><strong>제1차 원정 때의 결과</strong>와 <strong>전쟁이 끝났을 때의 결과</strong>를 교과서 문장에서 각각 찾아 적자. 한 문장 안에 두 결과가 같이 들어 있는데, 교과서는 왜 그렇게 썼을까? <input type="text" class="blank-input activity-input no-score" data-id="act-3" data-label="교과서 98쪽에서 찾기 — 제1차 원정 때의 결과와 전쟁이 끝났을 때의 결과를 교과서 문장에서" style="width:520px" placeholder=""></div></div>
 <br>
 <figure class="ws-fig"><img src="images/3-3-3_되찾았다가잃었다.png" alt="200여 년 — 제1차 원정에서 예루살렘을 점령했지만 다시 잃었고, 결국 성지를 회복하지 못했다." loading="lazy"><figcaption>200여 년 — 제1차 원정에서 예루살렘을 점령했지만 다시 잃었고, 결국 성지를 회복하지 못했다.</figcaption></figure>
 <br>
@@ -970,7 +974,7 @@ table:has(.ox-group) td:first-child { width: 46px; text-align: center; color: #6
 <br>
 <p><strong>싸운 상대편도 돈을 벌었다.</strong> 셀주크 튀르크는 동서양을 잇는 중계 무역으로 이익을 얻었다. 항구 도시와 비단길의 주요 도시에 국제 시장을 열었고, 교역로 곳곳에 상인 숙소를 세워 안전을 보장하며 무역을 장려했다.</p>
 <br>
-<div class="ws-tb"><div class="ws-tb-tag">📕 교과서 99쪽 · 날개(옆쪽 작은 글씨)</div><div class="ws-tb-ask">셀주크 튀르크가 세운 상인 숙소의 <strong>이름</strong>은 무엇인가? 그리고 <strong>'카라반'</strong>은 어떤 사람들을 말하나? <input type="text" class="blank-input activity-input no-score" data-id="act-3" data-label="교과서 99쪽에서 찾기 — 셀주크 튀르크가 세운 상인 숙소의 이름은 무엇인가? 그리고 '카라반'" style="width:400px" placeholder=""></div></div>
+<div class="ws-tb"><div class="ws-tb-tag">📕 교과서 99쪽 · 날개(옆쪽 작은 글씨)</div><div class="ws-tb-ask">셀주크 튀르크가 세운 상인 숙소의 <strong>이름</strong>은 무엇인가? 그리고 <strong>'카라반'</strong>은 어떤 사람들을 말하나? <input type="text" class="blank-input activity-input no-score" data-id="act-4" data-label="교과서 99쪽에서 찾기 — 셀주크 튀르크가 세운 상인 숙소의 이름은 무엇인가? 그리고 '카라반'" style="width:400px" placeholder=""></div></div>
 <br>
 <p>전쟁이 끝난 뒤 두 세계의 교역은 더 활발해졌고, ⑥<input type="text" class="blank-input" data-answer="지중해" data-id="6" style="width:68px" placeholder=""> 무역권이 크게 성장했다. <strong>베네치아·제노바·피사</strong> 같은 연안 도시가 번성했고, <strong>이베리아반도</strong>와 <strong>콘스탄티노폴리스</strong>는 학문과 기술이 오가는 창구가 되었다. 이 길을 타고 비잔티움의 <strong>고전 문화</strong>, 이슬람 세계의 <strong>자연 과학</strong>, 중국의 <strong>제지술</strong>이 유럽에 들어왔다.</p>
 <br>
@@ -984,10 +988,10 @@ table:has(.ox-group) td:first-child { width: 46px; text-align: center; color: #6
 <br>
 <table class="act-table">
 <tr><td>속마음</td><td>누구?</td></tr>
-<tr><td>"동방과 직접 교류해서 부자가 되어야지."</td><td><input type="text" class="blank-input activity-input no-score" data-id="act-4" data-label="동방과 직접 교류해서 부자가 되어야지." style="width:120px" placeholder=""></td></tr>
-<tr><td>"신분의 자유를 얻을 테야."</td><td><input type="text" class="blank-input activity-input no-score" data-id="act-5" data-label="신분의 자유를 얻을 테야." style="width:120px" placeholder=""></td></tr>
-<tr><td>"동·서 교회를 통합하면 내 권위가 더 강해질 거야."</td><td><input type="text" class="blank-input activity-input no-score" data-id="act-6" data-label="동·서 교회를 통합하면 내 권위가 더 강해질 거야." style="width:120px" placeholder=""></td></tr>
-<tr><td>"더 넓은 땅을 손에 넣을 기회야."</td><td><input type="text" class="blank-input activity-input no-score" data-id="act-7" data-label="더 넓은 땅을 손에 넣을 기회야." style="width:120px" placeholder=""></td></tr>
+<tr><td>"동방과 직접 교류해서 부자가 되어야지."</td><td><input type="text" class="blank-input activity-input no-score" data-id="act-5" data-label="동방과 직접 교류해서 부자가 되어야지." style="width:120px" placeholder=""></td></tr>
+<tr><td>"신분의 자유를 얻을 테야."</td><td><input type="text" class="blank-input activity-input no-score" data-id="act-6" data-label="신분의 자유를 얻을 테야." style="width:120px" placeholder=""></td></tr>
+<tr><td>"동·서 교회를 통합하면 내 권위가 더 강해질 거야."</td><td><input type="text" class="blank-input activity-input no-score" data-id="act-7" data-label="동·서 교회를 통합하면 내 권위가 더 강해질 거야." style="width:120px" placeholder=""></td></tr>
+<tr><td>"더 넓은 땅을 손에 넣을 기회야."</td><td><input type="text" class="blank-input activity-input no-score" data-id="act-8" data-label="더 넓은 땅을 손에 넣을 기회야." style="width:120px" placeholder=""></td></tr>
 </table>
 <br>
 <h2>✅ OX 퀴즈</h2>
